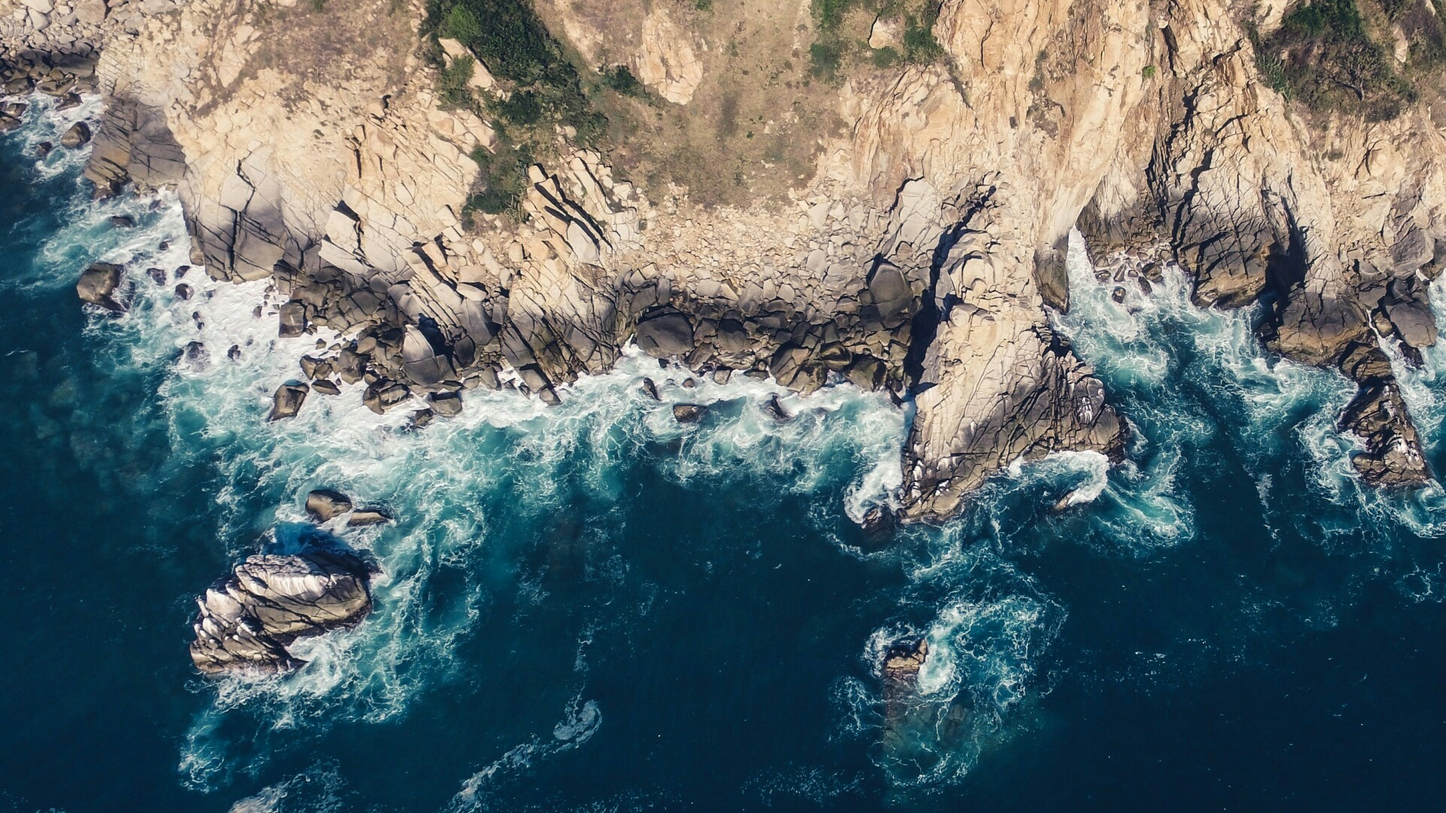
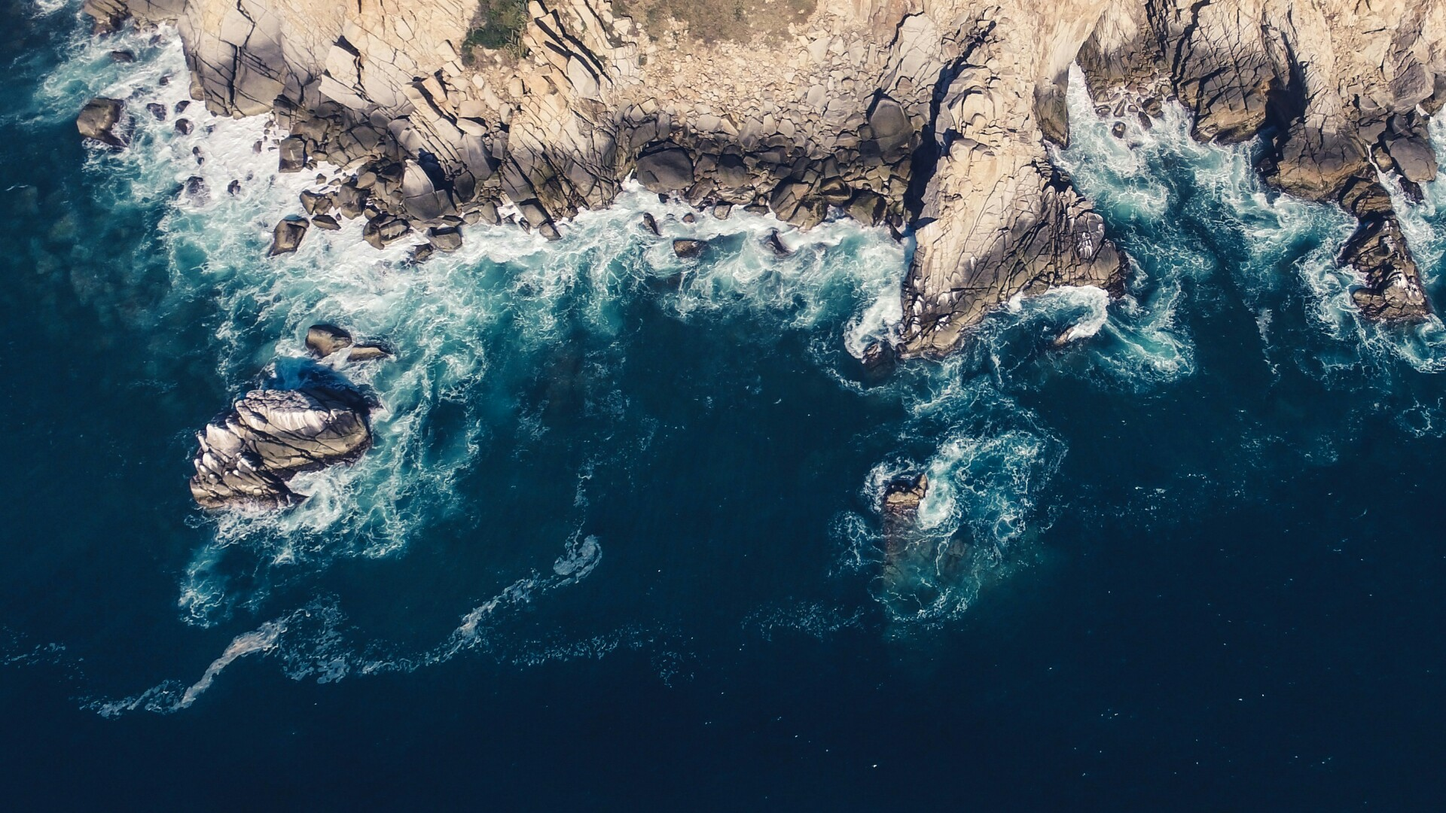
Site updated: 2017-10-27 12:06:37

diff --git a/css/mic_main.css b/css/mic_main.css
@@ -56,8 +56,8 @@
 			background-repeat: no-repeat; 
 			background-attachment:fixed; 
 			background-size: cover; 
-			-webkit-background-size: 100%;/* 兼容Webkit内核浏览器如Chrome和Safari */ 
-			-o-background-size: 100%;/* 兼容Opera */ 
+			-webkit-background-size: cover;/* 兼容Webkit内核浏览器如Chrome和Safari */ 
+			-o-background-size: cover;/* 兼容Opera */ 
 			zoom: 1; 
 			z-index: -1;
 		}
